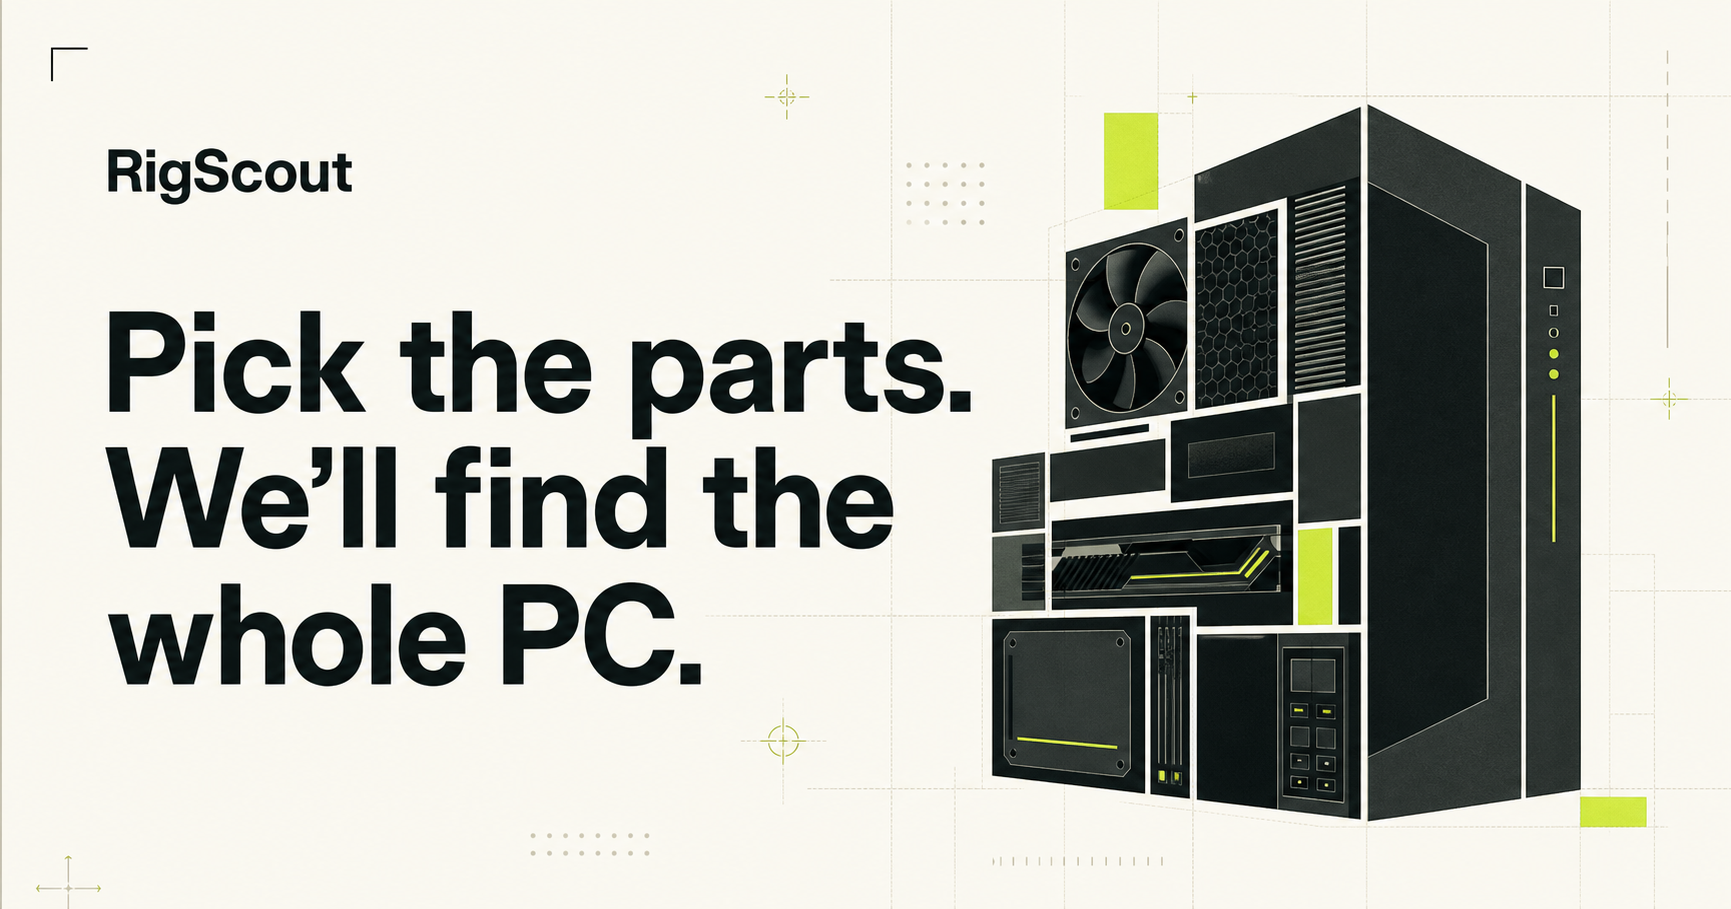
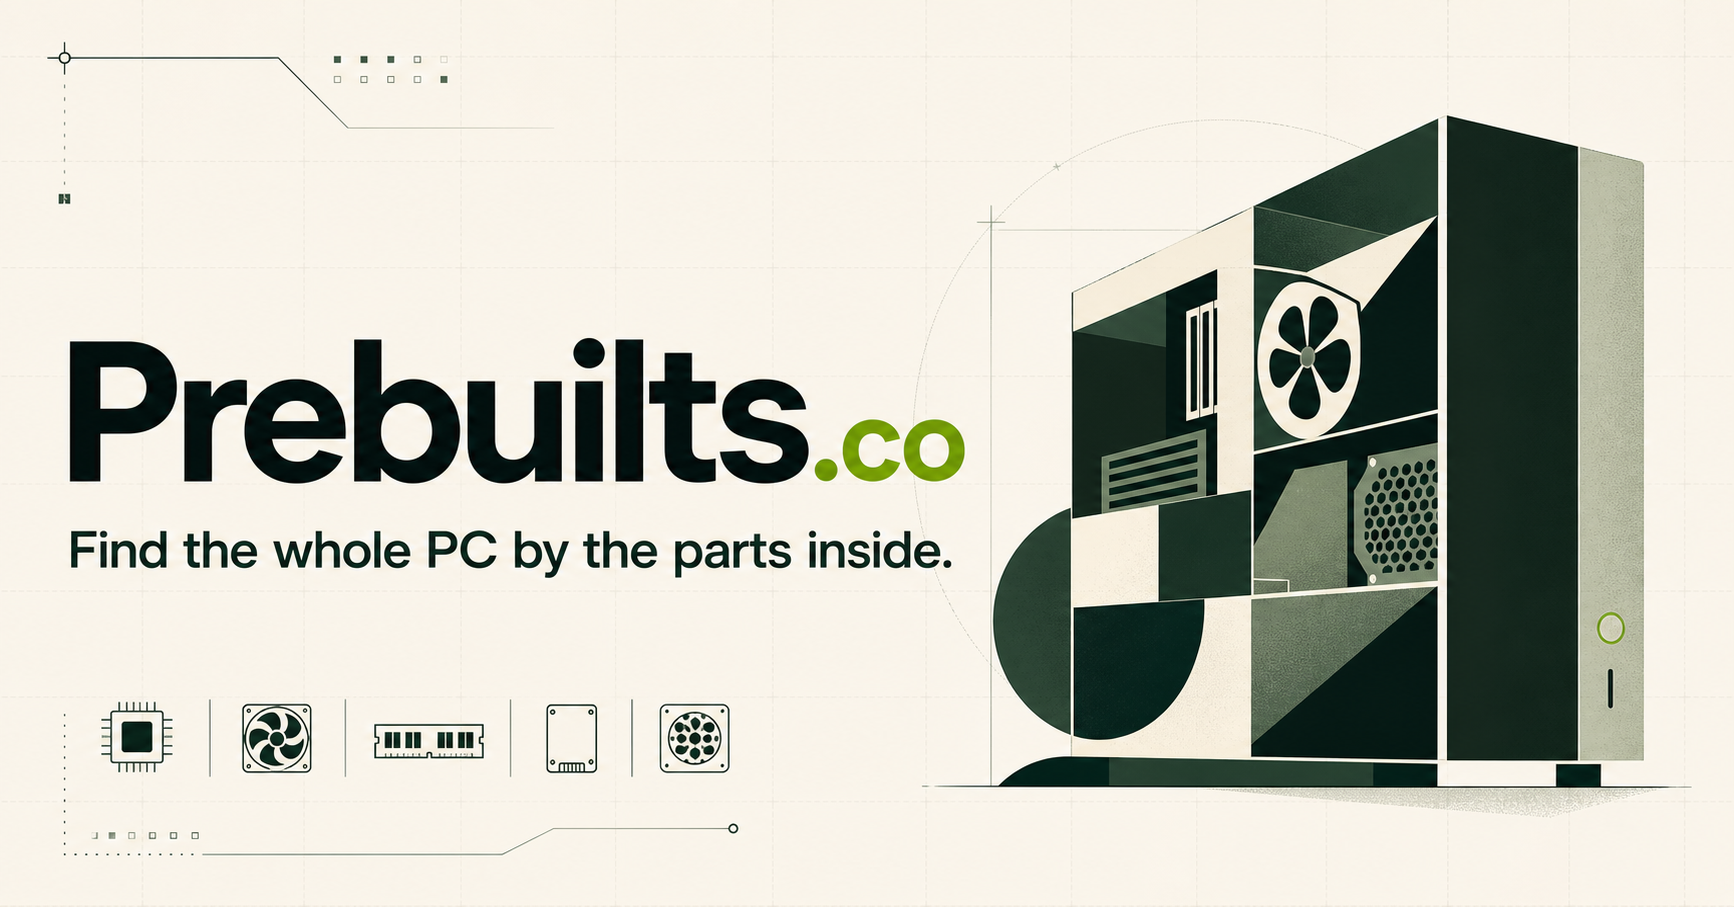
Rebrand site as Prebuilts.co
Update the public brand, metadata, social preview, trust pages, disclosure copy, and referral source labels for the acquired Prebuilts.co domain. Validated by production build and 21 tests.

diff --git a/app/about/page.tsx b/app/about/page.tsx
@@ -1,0 +1,44 @@
+export const metadata = {
+  title: "About - Prebuilts.co",
+  description: "How Prebuilts.co compares prebuilt PCs and explains the tradeoffs.",
+};
+
+export default function AboutPage() {
+  return (
+    <main className="info-page shell">
+      <a className="info-brand" href="/">Prebuilts.co</a>
+      <p className="step-label">ABOUT</p>
+      <h1>Find the whole PC by the parts inside.</h1>
+      <p className="info-lead">
+        Prebuilts.co helps shoppers search complete PCs by the CPU, GPU, memory,
+        storage, and secondary components they actually want.
+      </p>
+      <section>
+        <h2>How comparisons work</h2>
+        <p>
+          Published retailer specifications are normalized into a consistent
+          format. Deterministic scoring compares those specifications with your
+          build brief, while workload-aware rules explain useful alternatives
+          and visible compromises.
+        </p>
+      </section>
+      <section>
+        <h2>Confidence and uncertainty</h2>
+        <p>
+          Retailers do not always publish motherboard, power-supply, cooling,
+          or memory-configuration details. We label uncertain fields and lower
+          confidence instead of presenting an inference as confirmed fact.
+        </p>
+      </section>
+      <section>
+        <h2>Data freshness</h2>
+        <p>
+          Live retailer data is refreshed daily and expires automatically when
+          it becomes stale. Prices, specifications, and availability can still
+          change before checkout, so the retailer page remains the final source.
+        </p>
+      </section>
+      <a className="primary-button info-cta" href="/">Search prebuilt PCs</a>
+    </main>
+  );
+}

diff --git a/app/disclosure/page.tsx b/app/disclosure/page.tsx
@@ -1,0 +1,41 @@
+export const metadata = {
+  title: "Affiliate Disclosure - Prebuilts.co",
+  description: "How retailer links and commissions work on Prebuilts.co.",
+};
+
+export default function DisclosurePage() {
+  return (
+    <main className="info-page shell">
+      <a className="info-brand" href="/">Prebuilts.co</a>
+      <p className="step-label">DISCLOSURE</p>
+      <h1>Retailer relationships do not determine rankings.</h1>
+      <p className="info-lead">
+        Prebuilts.co may earn a commission when a purchase is made through an
+        eligible, clearly disclosed retailer link.
+      </p>
+      <section>
+        <h2>How links work</h2>
+        <p>
+          Some retailer links may be ordinary outbound links and others may be
+          affiliate links. A commission does not increase your purchase price.
+        </p>
+      </section>
+      <section>
+        <h2>How rankings work</h2>
+        <p>
+          Results are ranked from the requested specifications, published
+          product details, price limits, confidence, and workload fit. Affiliate
+          eligibility is not a ranking input.
+        </p>
+      </section>
+      <section>
+        <h2>Verify before purchasing</h2>
+        <p>
+          Retailer prices, availability, promotions, and configurations can
+          change. Confirm the final model, specifications, price, and return
+          terms on the retailer site before checkout.
+        </p>
+      </section>
+    </main>
+  );
+}

diff --git a/app/privacy/page.tsx b/app/privacy/page.tsx
@@ -1,0 +1,41 @@
+export const metadata = {
+  title: "Privacy - Prebuilts.co",
+  description: "Privacy information for Prebuilts.co.",
+};
+
+export default function PrivacyPage() {
+  return (
+    <main className="info-page shell">
+      <a className="info-brand" href="/">Prebuilts.co</a>
+      <p className="step-label">PRIVACY</p>
+      <h1>A small product with a small data footprint.</h1>
+      <p className="info-lead">
+        Prebuilts.co does not currently require user accounts or collect payment information.
+      </p>
+      <section>
+        <h2>Information collected</h2>
+        <p>
+          Hosting infrastructure may process standard request information such
+          as IP address, browser type, requested pages, and timestamps for
+          security, reliability, and aggregate performance measurement.
+        </p>
+      </section>
+      <section>
+        <h2>Retailer links</h2>
+        <p>
+          When you follow a retailer link, that retailer receives the request
+          and applies its own privacy policy. Eligible links may contain
+          referral parameters used to measure purchases or site traffic.
+        </p>
+      </section>
+      <section>
+        <h2>Future features</h2>
+        <p>
+          If saved searches, email alerts, or accounts are introduced, this
+          notice will be updated before those features collect personal data.
+        </p>
+      </section>
+      <p className="info-updated">Last updated July 12, 2026.</p>
+    </main>
+  );
+}

diff --git a/app/RigScoutSearch.tsx b/app/RigScoutSearch.tsx
@@ -86,13 +86,14 @@ export default function RigScoutSearch({
   return (
     <main>
       <nav className="nav shell" aria-label="Primary navigation">
-        <a className="brand" href="#top" aria-label="RigScout home">
-          <span className="brand-mark">R</span>
-          <span>RigScout</span>
+        <a className="brand" href="#top" aria-label="Prebuilts.co home">
+          <span className="brand-mark">P</span>
+          <span>Prebuilts.co</span>
         </a>
         <div className="nav-links">
           <a href="#how-it-works">How it works</a>
           <a href="#results">{inventorySource === "live" ? "Live deals" : "Sample deals"}</a>
+          <a href="/about">About</a>
         </div>
         <button className="ghost-button" type="button" onClick={shareSearch}>
           {copied ? "Link copied" : "Share this brief"}
@@ -211,7 +212,7 @@ export default function RigScoutSearch({
       <section
         className="trust-strip shell"
         id="how-it-works"
-        aria-label="How RigScout works"
+        aria-label="How Prebuilts.co works"
       >
         <div>
           <strong>01</strong>
@@ -265,11 +266,19 @@ export default function RigScoutSearch({
         </div>
 
         <p className="affiliate-note">
-          RigScout may earn a commission when you purchase through our links.
+          Prebuilts.co may earn a commission when you purchase through eligible links.
           This does not affect your price or result ranking. Always verify final
           specifications, price, and availability with the retailer.
         </p>
       </section>
+      <footer className="site-footer shell">
+        <span>Prebuilts.co</span>
+        <nav aria-label="Site information">
+          <a href="/about">About</a>
+          <a href="/privacy">Privacy</a>
+          <a href="/disclosure">Disclosure</a>
+        </nav>
+      </footer>
     </main>
   );
 }

diff --git a/app/globals.css b/app/globals.css
@@ -113,6 +113,19 @@ h1 span { color: #788078; font-weight: 500; }
 .deal-button { width: 100%; padding: 11px 12px; margin-top: 19px; font-size: 12px; }
 .price-block small { margin-top: 7px; color: #969d97; font-size: 9px; }
 .affiliate-note { max-width: 750px; margin: 24px auto 0; text-align: center; color: #858c86; font-size: 10px; line-height: 1.5; }
+.site-footer { display: flex; justify-content: space-between; gap: 24px; padding-top: 28px; padding-bottom: 38px; color: var(--muted); font-size: 12px; }
+.site-footer nav { display: flex; gap: 20px; }
+.site-footer a { color: inherit; text-decoration: none; }
+.site-footer a:hover { color: var(--ink); }
+.info-page { max-width: 820px; padding-top: 64px; padding-bottom: 90px; }
+.info-brand { display: inline-block; margin-bottom: 80px; color: var(--ink); font-size: 18px; font-weight: 750; text-decoration: none; }
+.info-page h1 { max-width: 760px; margin: 12px 0 24px; font-size: clamp(42px, 7vw, 76px); line-height: .98; letter-spacing: -.055em; }
+.info-lead { max-width: 690px; margin-bottom: 60px; color: var(--muted); font-size: 20px; line-height: 1.55; }
+.info-page section { max-width: 690px; padding: 28px 0; border-top: 1px solid #d9ded8; }
+.info-page section h2 { margin: 0 0 10px; font-size: 20px; }
+.info-page section p { margin: 0; color: var(--muted); line-height: 1.7; }
+.info-cta { display: inline-flex; margin-top: 34px; text-decoration: none; }
+.info-updated { margin-top: 34px; color: var(--muted); font-size: 12px; }
 
 @media (max-width: 900px) {
   .field-grid { grid-template-columns: repeat(2, 1fr); }
@@ -144,4 +157,7 @@ h1 span { color: #788078; font-weight: 500; }
   .product-image { padding-right: 12px; }
   .result-main { padding: 0; }
   .spec-row { grid-template-columns: repeat(2, 1fr); }
+  .site-footer { align-items: flex-start; flex-direction: column; }
+  .info-page { padding-top: 36px; }
+  .info-brand { margin-bottom: 54px; }
 }

diff --git a/app/layout.tsx b/app/layout.tsx
@@ -14,11 +14,11 @@ const geistMono = Geist_Mono({
 
 const siteUrl =
   process.env.NEXT_PUBLIC_SITE_URL ??
-  "https://rigscout-pc-search.illseen.chatgpt.site";
+  "https://prebuilts.co";
 
-const title = "RigScout - Find the prebuilt with your parts";
+const title = "Prebuilts.co - Find the whole PC by the parts inside";
 const description =
-  "Search prebuilt computers by exact components and compare the closest deals across retailers.";
+  "Search prebuilt PCs by exact components, compare real tradeoffs, and find the closest current retailer listings.";
 
 export const metadata: Metadata = {
   metadataBase: new URL(siteUrl),

diff --git a/lib/affiliate.ts b/lib/affiliate.ts
@@ -19,7 +19,7 @@ export function affiliateUrl(canonicalUrl: string, retailer: string): string {
     }
   }
 
-  url.searchParams.set("utm_source", "rigscout");
+  url.searchParams.set("utm_source", "prebuilts.co");
   url.searchParams.set("utm_medium", "affiliate");
   url.searchParams.set(
     "utm_campaign",

diff --git a/README.md b/README.md
@@ -1,6 +1,6 @@
-# RigScout
+# Prebuilts.co
 
-RigScout is a spec-first search engine for prebuilt PCs. A shopper chooses the components and minimum specifications they want; RigScout returns the closest systems across retailers and sends qualified traffic through disclosed affiliate links.
+Prebuilts.co is a spec-first search engine for prebuilt PCs. A shopper chooses the components and minimum specifications they want; Prebuilts.co returns the closest systems across retailers and sends qualified traffic through disclosed affiliate links.
 
 ## Current prototype
 